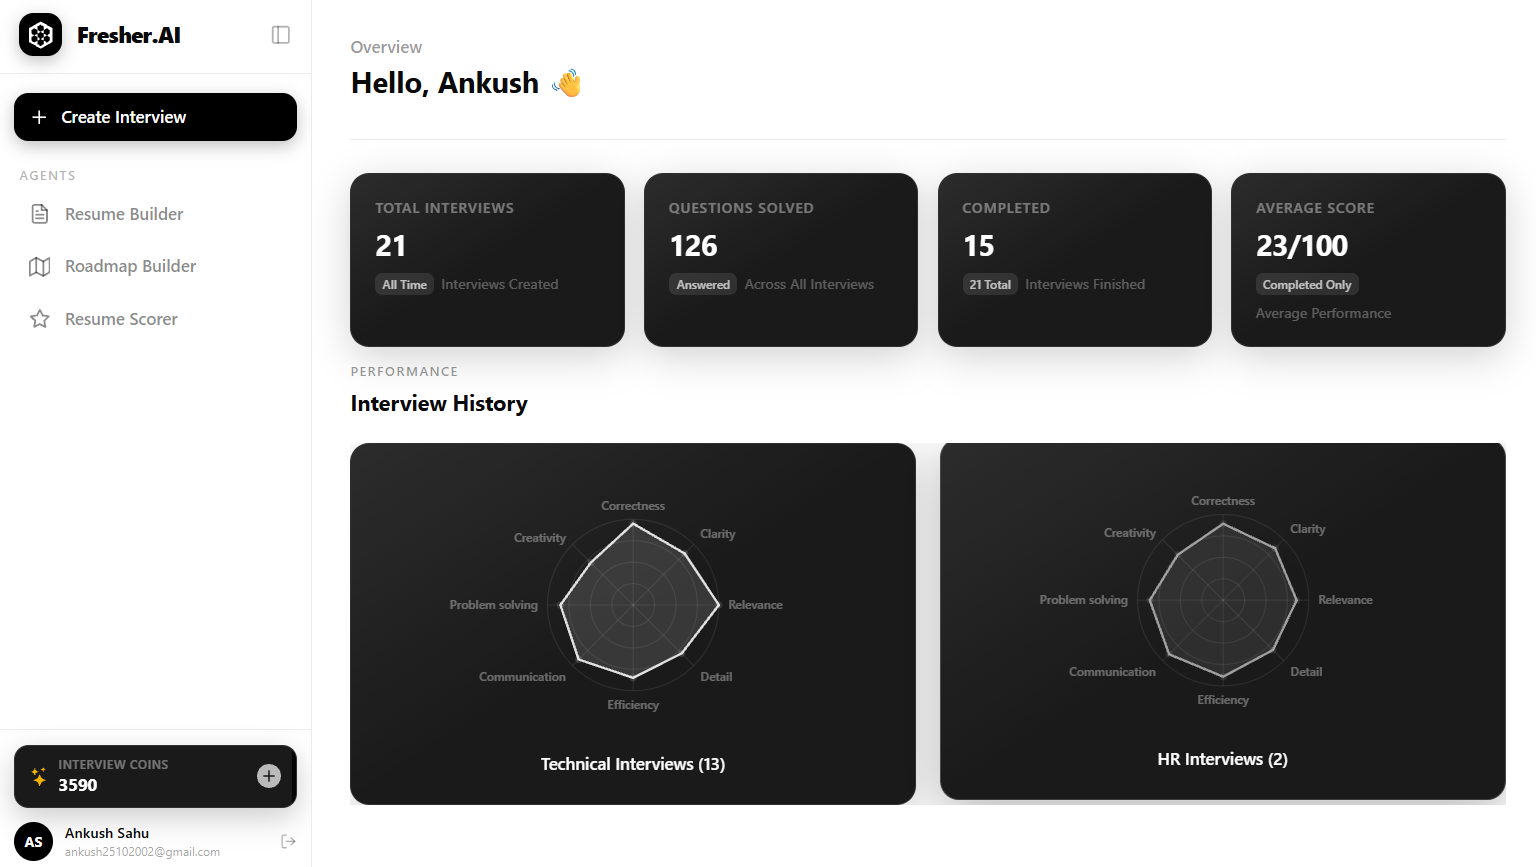
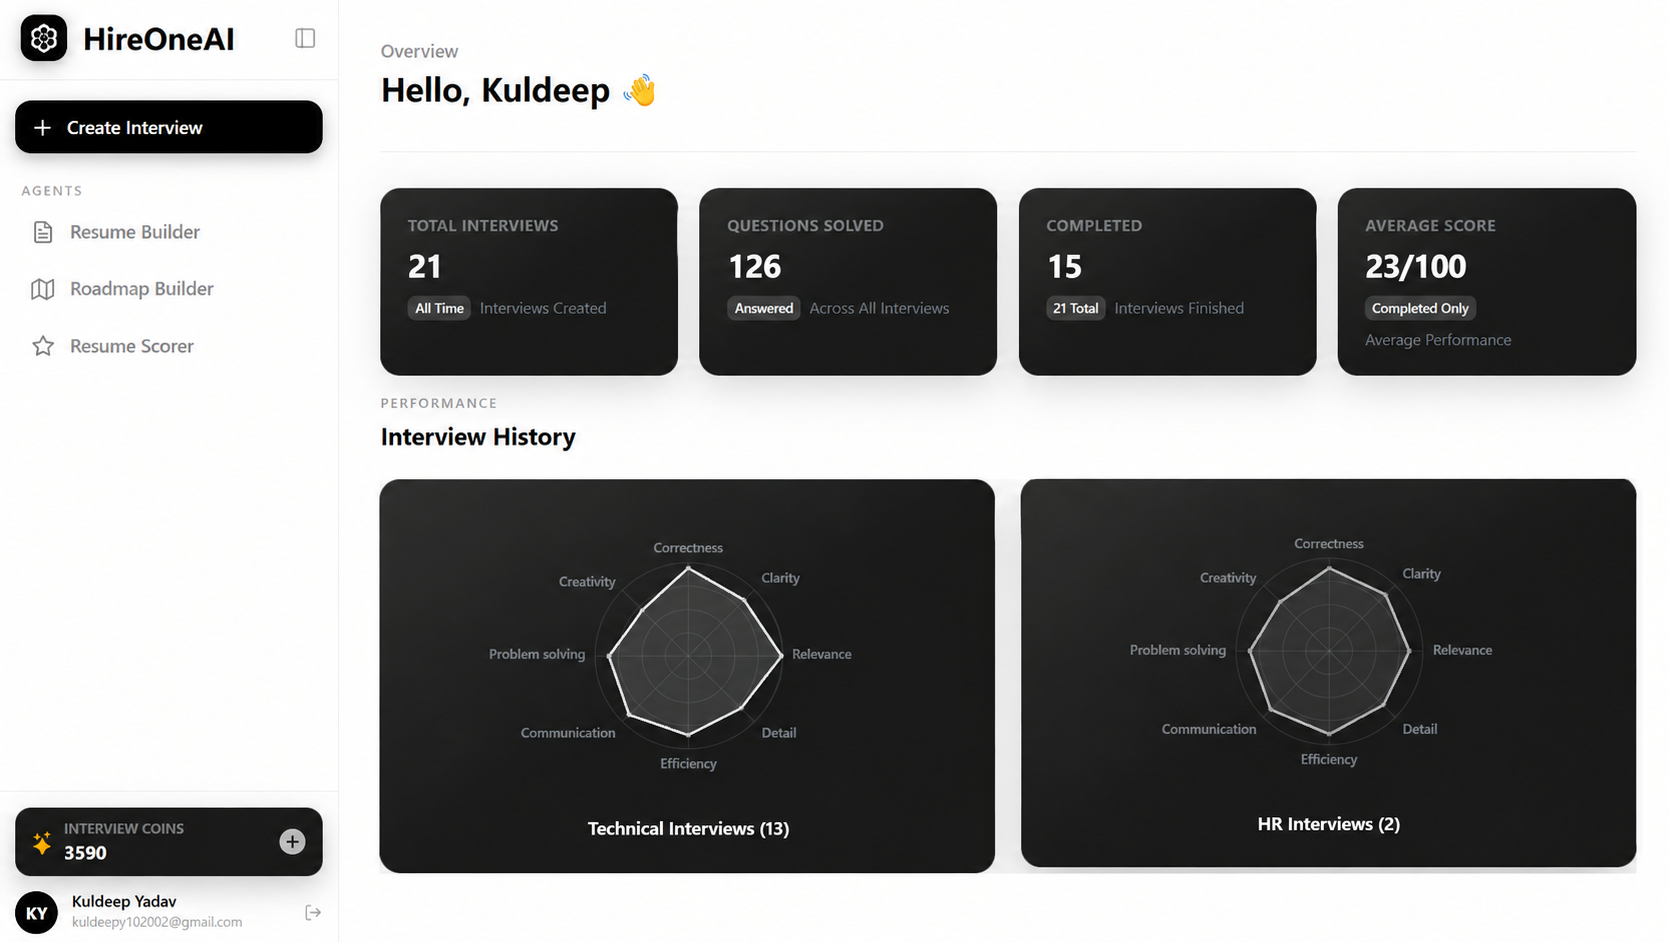
home page frontend setup

diff --git a/frontend/src/pages/Home.jsx b/frontend/src/pages/Home.jsx
@@ -5,6 +5,7 @@ import { FaArrowRight } from "react-icons/fa";
 import LoginModel from "../components/LoginModel";
 import { useState } from "react";
 import dashboard from "../assets/image.png";
+import { FiBarChart2, FiFileText, FiMic, FiTarget } from "react-icons/fi";
 
 function Home({ setUser }) {
   const [showLogin, setShowLogin] = useState(false);
@@ -86,7 +87,7 @@ function Home({ setUser }) {
               whileTap={{ scale: 0.97 }}
               className="relative gap-2 overflow-hidden bg-[#0A0A0A]/80 backdrop-blur-2xl text-white font-bold px-5 py-2.5 rounded-lg text-xs cursor-pointer border border-white/10 shadow-[0_8px_32px_rgba(0,0,0,0.3)] transition-all hover:border-white/20"
             >
-              <span className="flex items-center justify-center">
+              <span className="flex items-center justify-center gap-1">
                 Get Started For Free <FaArrowRight />
               </span>
               <span className="absolute inset-0 bg-gradient-to-br from-white/[0.1] via-transparent to-transparent pointer-events-none rounded-lg" />
@@ -110,11 +111,99 @@ function Home({ setUser }) {
       </section>
 
       {/* Agents  */}
-     
+      <section className="py-16 bg-[#F8F9FA]">
+        <div className="max-w-5xl mx-auto px-6">
+          <div className="text-center mb-10">
+            <div
+              className="inline-flex items-center px-3 py-1.5 
+            rounded-full border border-black/15 bg-black/5 text-black/70
+            text-xs font-medium mb-4"
+            >
+              AI Powered Agents
+            </div>
+
+            <h2
+              className="text-2xl md:text-4xl font-extrabold 
+            tracking-tight text-[#0A0A0A] [text-shadow:0_4px_20px_rgba(0,0,
+            0,0.1)]"
+            >
+              Specialized Agents For
+              <span className="block text-black/30">Every Interview Stage</span>
+            </h2>
+            <p className="text-black/40 text-sm max-w-2xl mx-auto mt-4 leading-relaxed">
+              HireOneAI combines multiple AI agents that work together to help
+              you build your resume, practice interviews, receive detailed
+              feedback, and follow a personalized roadmap to land your dream
+              job.
+            </p>
+          </div>
+          {[
+            {
+              icon: <FiFileText />,
+              title: "Resume Agent",
+              desc: "Create ATS-friendly resumes, improve profile strength and maximize interview opportunities.",
+            },
+            {
+              icon: <FiMic />,
+              title: "Interview Agent",
+              desc: "Conduct realistic HR, Technical and Coding interviews with AI-powered simulations.",
+            },
+            {
+              icon: <FiBarChart2 />,
+              title: "Feedback Agent",
+              desc: "Get detailed answer analysis, scoring reports and recommendations.",
+            },
+            {
+              icon: <FiTarget />,
+              title: "Skill Gap Agent",
+              desc: "Identify missing skills for your target role and get a personalized learning roadmap.",
+            },
+          ].map((agent, i) => {
+            <motion.div
+              key={i}
+              initial={{ opacity: 0, y: 24 }}
+              whileInView={{ opacity: 1, y: 0 }}
+              viewport={{ once: true }}
+              transition={{ duration: 0.45, delay: i * 0.08 }}
+              whileHover={{ y: -10, scale: 1.02 }}
+              className="group relative overflow-hidden bg-[#0A0A0A]/80 backdrop-blur-2xl border border-white/10 rounded-2xl p-5 shadow-[0_8px_32px_rgba(0,0,0,0.25)] hover:shadow-[0_16px_48px_rgba(0,0,0,0.4)] hover:border-white/20 transition-all"
+            >
+              <div className="absolute inset-0 bg-gradient-to-br from-white/[0.08] via-transparent to-transparent pointer-events-none" />
+              <div className="absolute -top-10 -right-10 w-32 h-32 bg-white/10 rounded-full blur-3xl opacity-0 group-hover:opacity-100 transition-opacity duration-500" />
+
+              <div className="relative">
+                <div className="w-11 h-11 rounded-xl bg-white/10 backdrop-blur-md border border-white/15 flex items-center justify-center text-white text-lg mb-4 shadow-inner">
+                  {agent.icon}
+                </div>
+
+                <h2 className="text-base font-bold mb-2 text-white">
+                  {agent.title}
+                </h2>
+
+                <p className="text-white/45 text-xs leading-relaxed">
+                  {agent.desc}
+                </p>
+              </div>
+            </motion.div>;
+          })}
+        </div>
+      </section>
 
       {showLogin && (
         <LoginModel onClose={() => setShowLogin(false)} setUser={setUser} />
       )}
+
+      <footer className="border-t border-black/7 py-6 text-center bg-white">
+        <div className="flex items-center justify-center gap-2 mb-1.5">
+          <div className="w-5 h-5 rounded-md bg-[#0A0A0A] flex items-center justify-center">
+            <GiArtificialHive size={11} color="white" />
+          </div>
+          <span className="font-bold text-xs text-[#0A0A0A]/70">FresherAI</span>
+        </div>
+        <div className="text-black/30 text-xs">
+          © {new Date().getFullYear()} HireOneAI · All rights reserved
+        </div>
+      </footer>
     </div>
   );
 }
